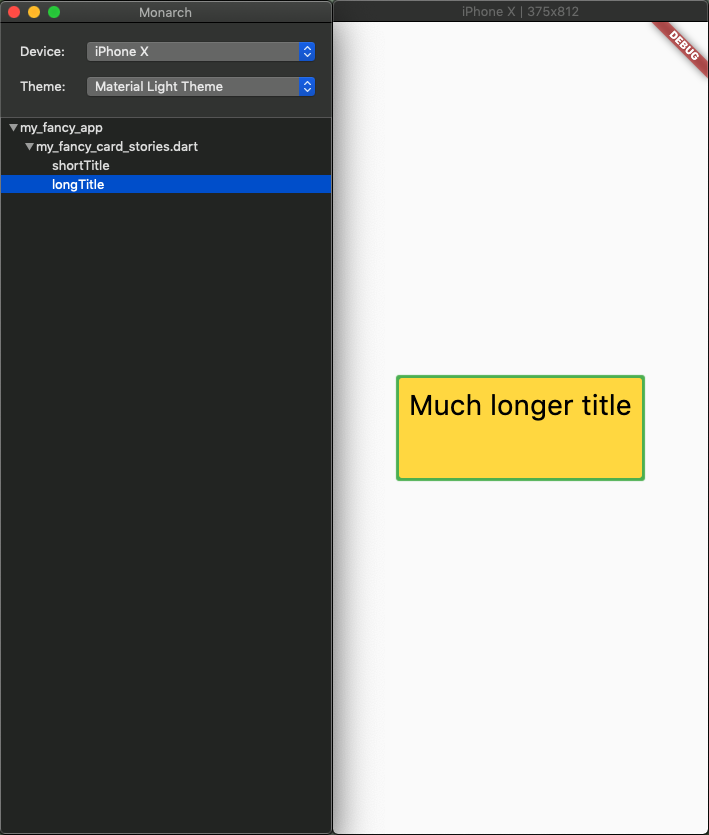
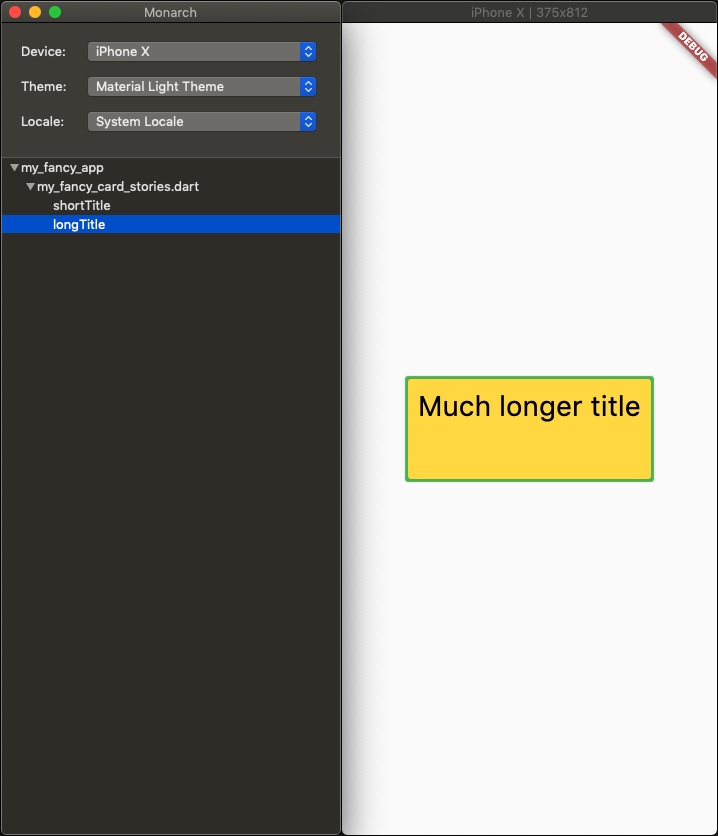
readme update to include localizations feature

diff --git a/monarch/README.md b/monarch/README.md
@@ -32,7 +32,7 @@ _This is the alpha release of Monarch. We only support flutter development on ma
 1. Add `monarch` and `build_runner` to your project dev_dependencies:
 ```yaml
 dev_dependencies:
-  monarch: ^0.0.24
+  monarch: ^0.0.26
   build_runner: ^1.7.1
 ```
 
@@ -54,8 +54,8 @@ Download them into your directory of choice using `curl`, for example:
 
 ```
 $ cd ~/development
-$ curl -O https://dropsource-monarch.s3.amazonaws.com/dist/alpha/monarch_tools_0.0.46.zip
-$ unzip monarch_tools_0.0.46.zip
+$ curl -O https://dropsource-monarch.s3.amazonaws.com/dist/alpha/monarch_tools_0.0.48.zip
+$ unzip monarch_tools_0.0.48.zip
 ```
 
 ## Usage
@@ -84,7 +84,7 @@ You should see the task runner working and eventually opening the Monarch app.
 
 Once the app opens, you should see your stories listed on screen. You can 
 select each story to see how it would render. You can also select different 
-device resolutions and themes
+device resolutions, themes and locales.
 
 You can now add more stories. As you add more stories, the task runner will 
 automatically detect the changes and reload the stories in the app.
@@ -98,12 +98,12 @@ can gitignore that directory.
 
 
 ### Themes
-Your stories can render using your app's themes. If you want see themes in 
+Your stories can render using your app's themes. If you want to see themes in 
 Monarch then you need to add the 
 `package:monarch_annotations` to your dependencies:
 ```yaml
 dependencies:
-  monarch_annotations: ^0.0.9
+  monarch_annotations: ^0.0.12
 ``` 
 Then, you can annotate your themes:
 ```dart
@@ -113,8 +113,34 @@ import 'package:monarch_annotations/monarch_annotations.dart';
 @MonarchTheme('Fancy Theme')
 final fancyTheme = ThemeData(...);
 ```
-When you run the desktop app, you should be able to select your theme in the 
+When you run the Monarch app, you should be able to select your theme in the 
 Theme dropdown.
+
+
+### Internationalization (or Localizations)
+If your application is internationalized (or localized), you can render your stories using the locales 
+you have declared in code.
+
+First, make sure to add the `package:monarch_annotations` to your dependencies:
+```yaml
+dependencies:
+  monarch_annotations: ^0.0.12
+``` 
+Then, you can annotate your app-specific localizations delegate:
+```dart
+import 'package:monarch_annotations/monarch_annotations.dart';
+...
+
+class MyLocalizationsDelegate extends LocalizationsDelegate<MyLocalizations> {...}
+
+@MonarchLocalizations([MonarchLocale('en', 'US'), MonarchLocale('es')])
+const myLocalizationsDelegate = MyLocalizationsDelegate();
+```
+In the example above, the locales `en-US` and `es` will display in the Monarch app.
+
+When you run the Monarch app, you should be able to select the locales you want
+to use from the Locale dropdown.
+
 
 ## Troubleshooting
 If you experience any issues while running the task runner, you can run it in 
